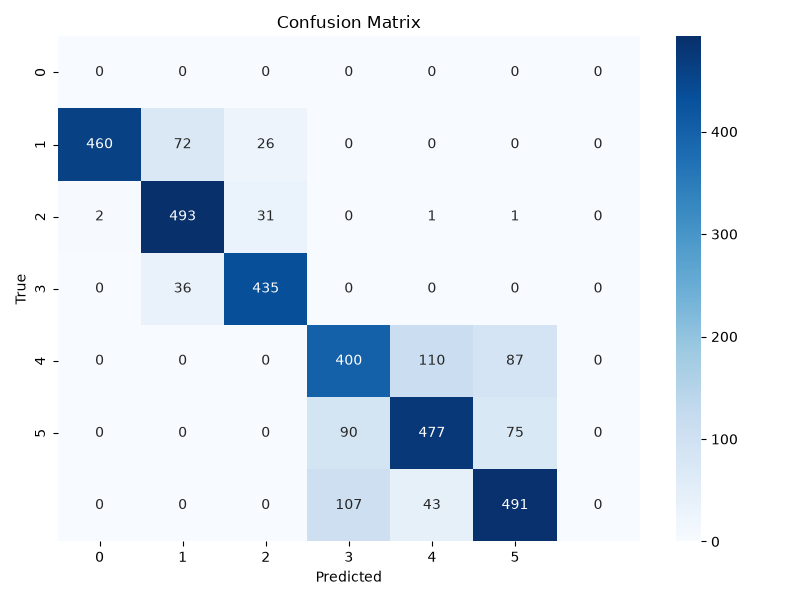
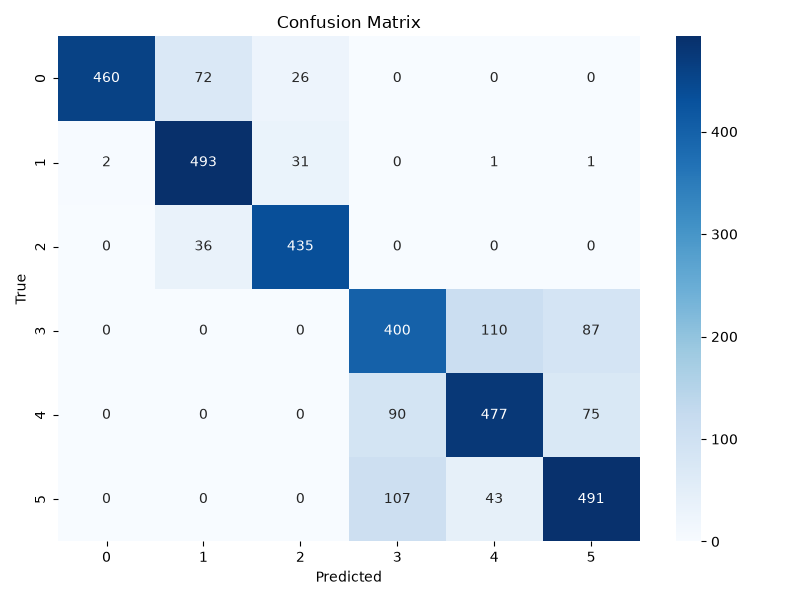
Complete MotionShield ML and sensor validation

diff --git a/scripts/evaluate.py b/scripts/evaluate.py
@@ -218,7 +218,9 @@ def main():
     test_npz_path = Path(cfg.get('test_path'))
     if not test_npz_path.is_file():
         raise FileNotFoundError(f"Test NPZ not found: {test_npz_path}")
-    test_windows, test_labels = load_test_data(test_npz_path)
+    test_windows, raw_test_labels = load_test_data(test_npz_path)
+    # Convert to 0‑based class indices (training uses 0‑based)
+    test_labels = (raw_test_labels - 1).astype(np.int64)
 
     # Load metadata for verification
     metadata_path = model_dir / "model_metadata.json"
